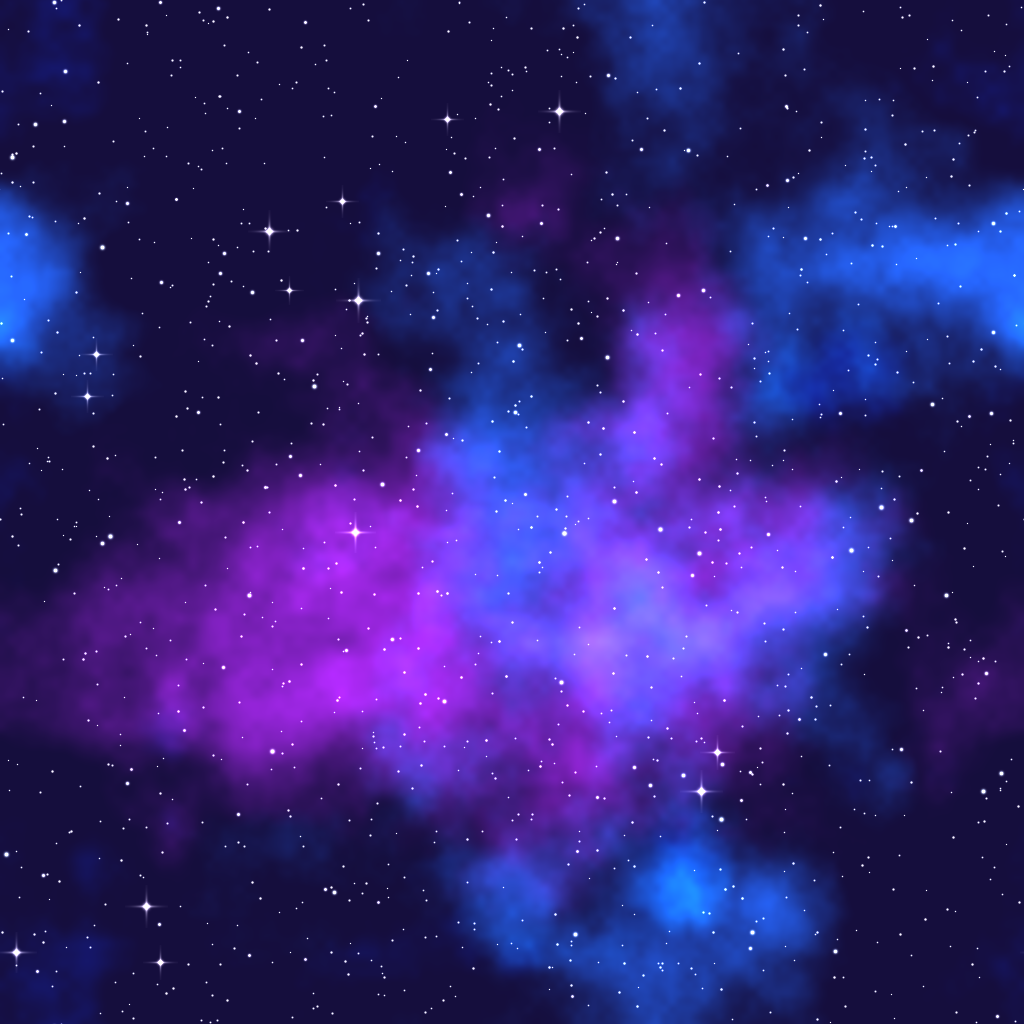
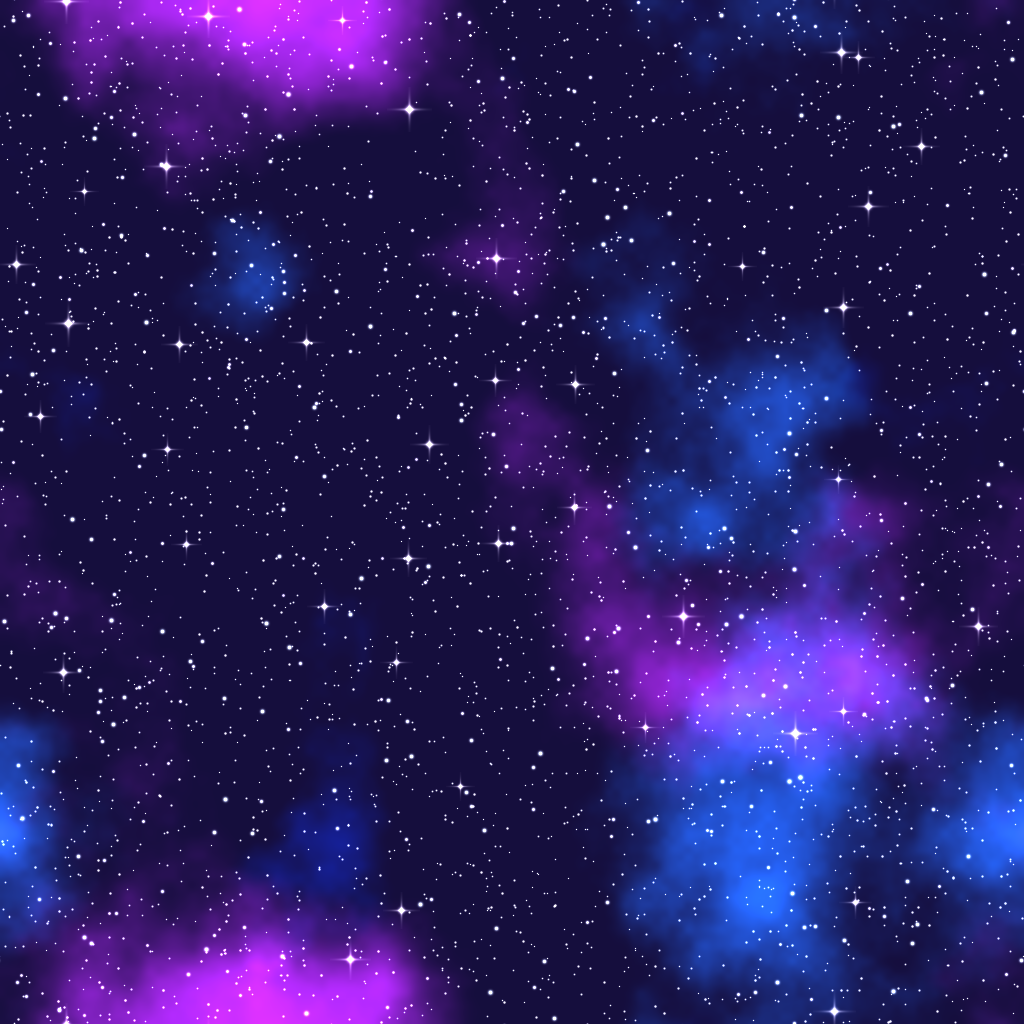
Parcela 12 de nube; galaxia (14) y oro (15) sin patron repetido

diff --git a/CHANGELOG.md b/CHANGELOG.md
@@ -2,6 +2,24 @@
 
 > El más nuevo arriba. Formato en [`CLAUDE.md`](CLAUDE.md).
 
+## 2026-11-25 · seguo970 (Claude) · Parcela 12 de nube; parcelas 14 y 15 sin patrón repetido
+**Qué:**
+- **Parcela 12** (Islas del Cielo, la de la Pala 23): el hoyo entero es de **nube**, con bultos blancos esponjosos de varios tamaños y sombras azuladas suaves. Antes tenía hierba arriba y piedra gris debajo.
+- **Parcela 14** (galaxia): ya no se nota el patrón desde arriba. La textura ocupa 4 veces más (96 studs en vez de 24) y tiene 4 veces más estrellas, para que no quede vacía.
+- **Parcela 15** (oro macizo): ya no se nota el patrón. La textura ocupa 4 veces más (64 studs en vez de 16), con 400 bloques en vez de 64 y cambios suaves de brillo por toda la textura.
+**Dónde:**
+- `MaterialService.Nube` (nueva): `MaterialVariant` sobre `WoodPlanks`, con `StudsPerTile` 64 y `SetBaseMaterialOverride(WoodPlanks, "Nube")`. `WoodPlanks` no lo usaba nada: ni piezas, ni parcelas, ni el terreno del mapa.
+- `Config`:
+  - `PLOTS[12].terrain = {{"WoodPlanks"}}`.
+  - `TERRAIN_COLORS.WoodPlanks` = blanco (nuevo).
+- `MaterialService.Galaxia`: `StudsPerTile` 96, color `72175773257964` y normal `101873375815619`.
+- `MaterialService.OroMacizo`: `StudsPerTile` 64, color `122434176833335`, normal `114846160892022`, rugosidad `93335784408872` y metal `123133641395271`.
+- Scripts de las texturas: `tools/modelos/Nube/texturas.ps1` (nuevo), `Galaxia/texturas.ps1` (v3, `-Seed 15`) y `OroMacizo/texturas.ps1` (v2, `-Cells 400 -Seed 12`). Los ids están en sus `IDS.txt`.
+**Probado:** Play en Studio:
+- Capturas de las 3 parcelas desde arriba.
+- En la parcela 12 todo el hoyo es `WoodPlanks` (`ReadVoxels`).
+- Sin errores. Los avisos «being generated» son de un asset que aún se estaba procesando.
+
 ## 2026-11-25 · seguo970 (Claude) · Parcela 11 (Templo Perdido): se cava en ladrillos de templo
 **Qué:** el hoyo entero de la parcela 11 (la de la Pala Rúnica del Templo, pala 21) es de **ladrillos de arenisca**, en los colores del bioma del templo. Cada ladrillo tiene su tono, entre arena clara y ocre, con bordes gastados, grano y algún desconchón, y juntas de mortero. Antes tenía 6 studs de adoquín arriba y caliza debajo.
 **Dónde:**

diff --git a/docs/ARQUITECTURA.md b/docs/ARQUITECTURA.md
@@ -25,6 +25,7 @@
 - `GOLD.colors = {Salt = blanco}`: `GoldHunt` lo pone al arrancar y lo vuelve a poner `GoldOpen`. `Plots` también pinta `Salt` de blanco.
 - Ningún otro sitio usa `Salt`: lo que quedaba del Abismo de antes se cambió a `Sand`.
 - **Parcela 15 (25/11):** su terreno es `Concrete`, que solo usa ella. Lleva encima `MaterialService.OroMacizo` (oro macizo facetado; texturas de `tools/modelos/OroMacizo/texturas.ps1`) con `SetBaseMaterialOverride`, y `TERRAIN_COLORS.Concrete` es blanco.
+- **Parcela 12 (25/11):** todo su terreno es `WoodPlanks`, que no usa nada más. Encima lleva `MaterialService.Nube` (texturas de `tools/modelos/Nube/texturas.ps1`), y `TERRAIN_COLORS.WoodPlanks` es blanco.
 - **Parcela 11 (25/11):** todo su terreno es `Cobblestone` (solo lo usa ella), con `MaterialService.LadrilloTemplo` encima (ladrillos de arenisca; texturas de `tools/modelos/LadrilloTemplo/texturas.ps1`) y `TERRAIN_COLORS.Cobblestone` en blanco.
 - **Parcela 10 (25/11):** todo su terreno es `Glacier` (solo lo usa ella), con `MaterialService.CuarzoRosa` encima (texturas de `tools/modelos/CuarzoRosa/texturas.ps1`) y `TERRAIN_COLORS.Glacier` en blanco.
 - **Parcela 7 (25/11):** `Basalt` lleva encima `MaterialService.RocaVolcan` (roca sin patrón repetido; texturas de `tools/modelos/RocaVolcan/texturas.ps1`) y `TERRAIN_COLORS.Basalt` = 66, 63, 70. Ojo: `Basalt` es también el fondo de todos los hoyos y lo usan las piezas de la Pala 16.
